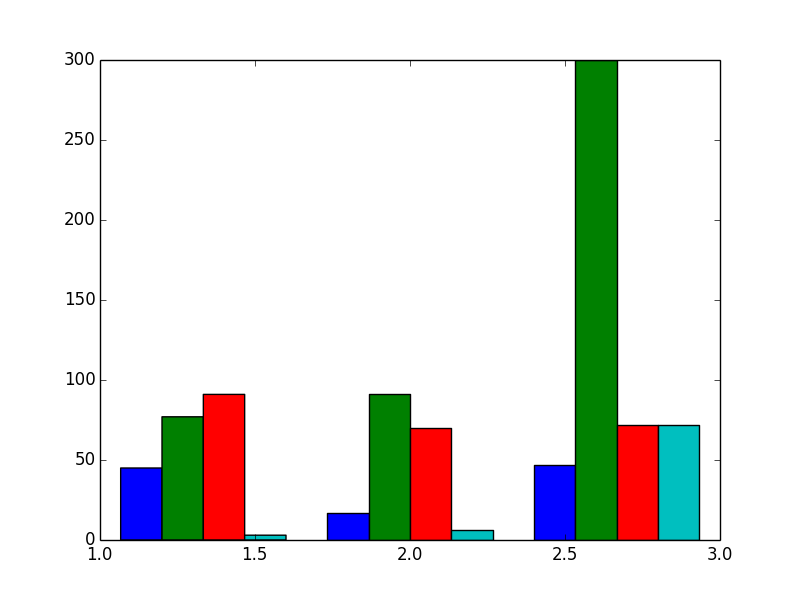
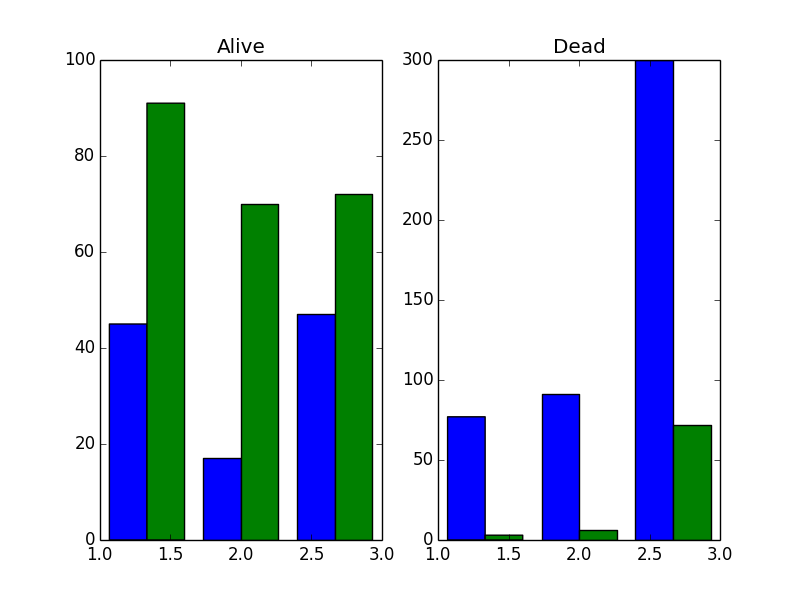
split up histogram

diff --git a/main.py b/main.py
@@ -104,10 +104,14 @@ men_die_class = data[men_die_stats,2].astype(np.float)
 wom_sur_class = data[wom_sur_stats,2].astype(np.float)
 wom_die_class = data[wom_die_stats,2].astype(np.float)
 
-histdata = [men_sur_class, men_die_class, wom_sur_class, wom_die_class]
-
-print histdata
-
+plt.figure(1)
+plt.subplot(121)
+plt.title('Alive')
+histdata = [men_sur_class, wom_sur_class]
+plt.hist(histdata, bins=3)
+plt.subplot(122)
+plt.title('Dead')
+histdata = [men_die_class, wom_die_class]
 plt.hist(histdata, bins=3)
 plt.savefig('ClassHistogram')
 
